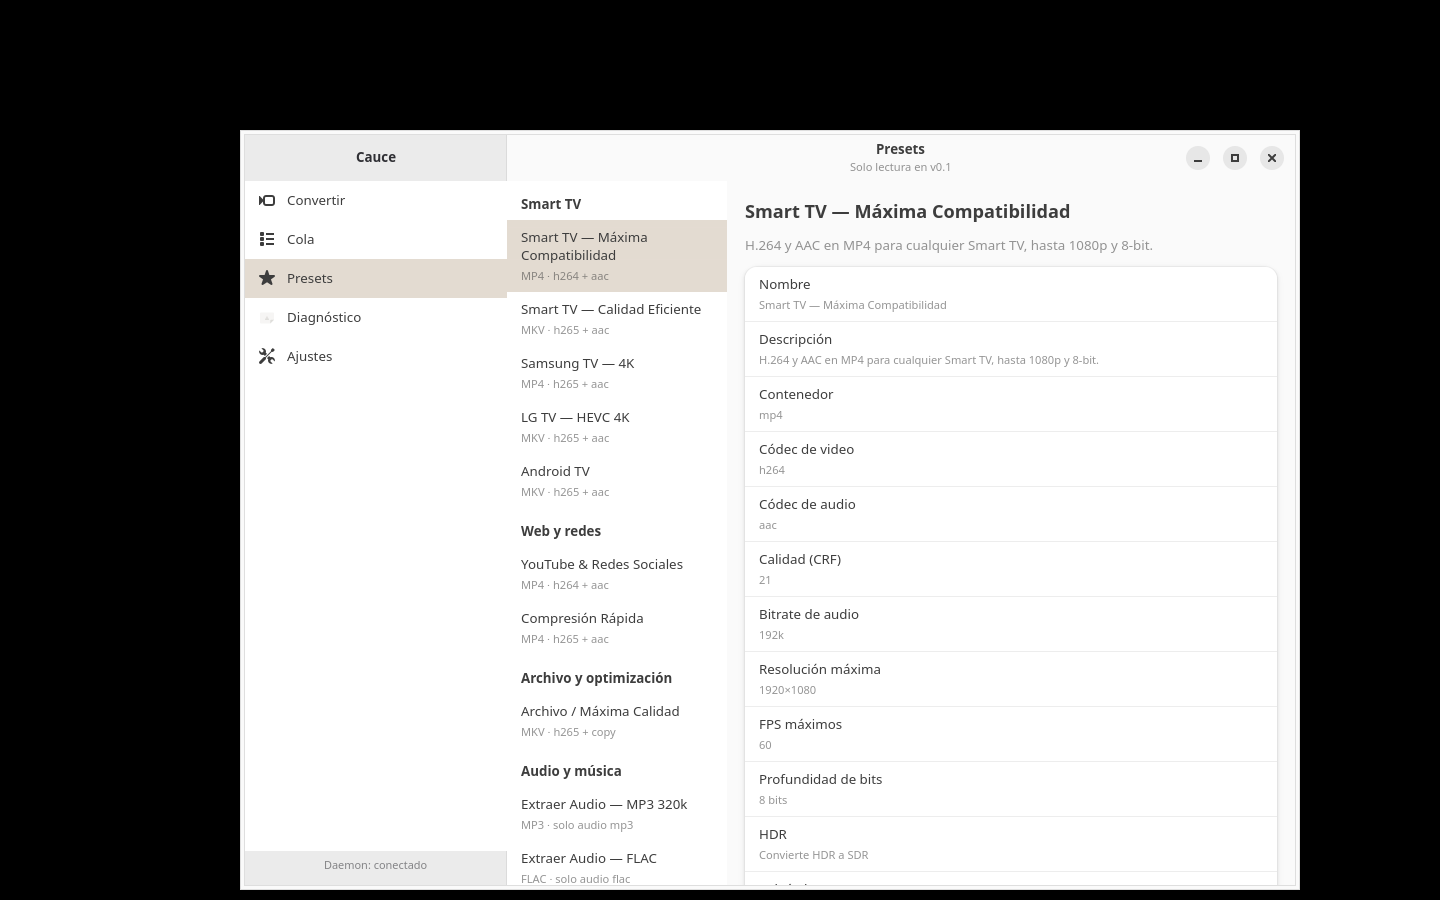
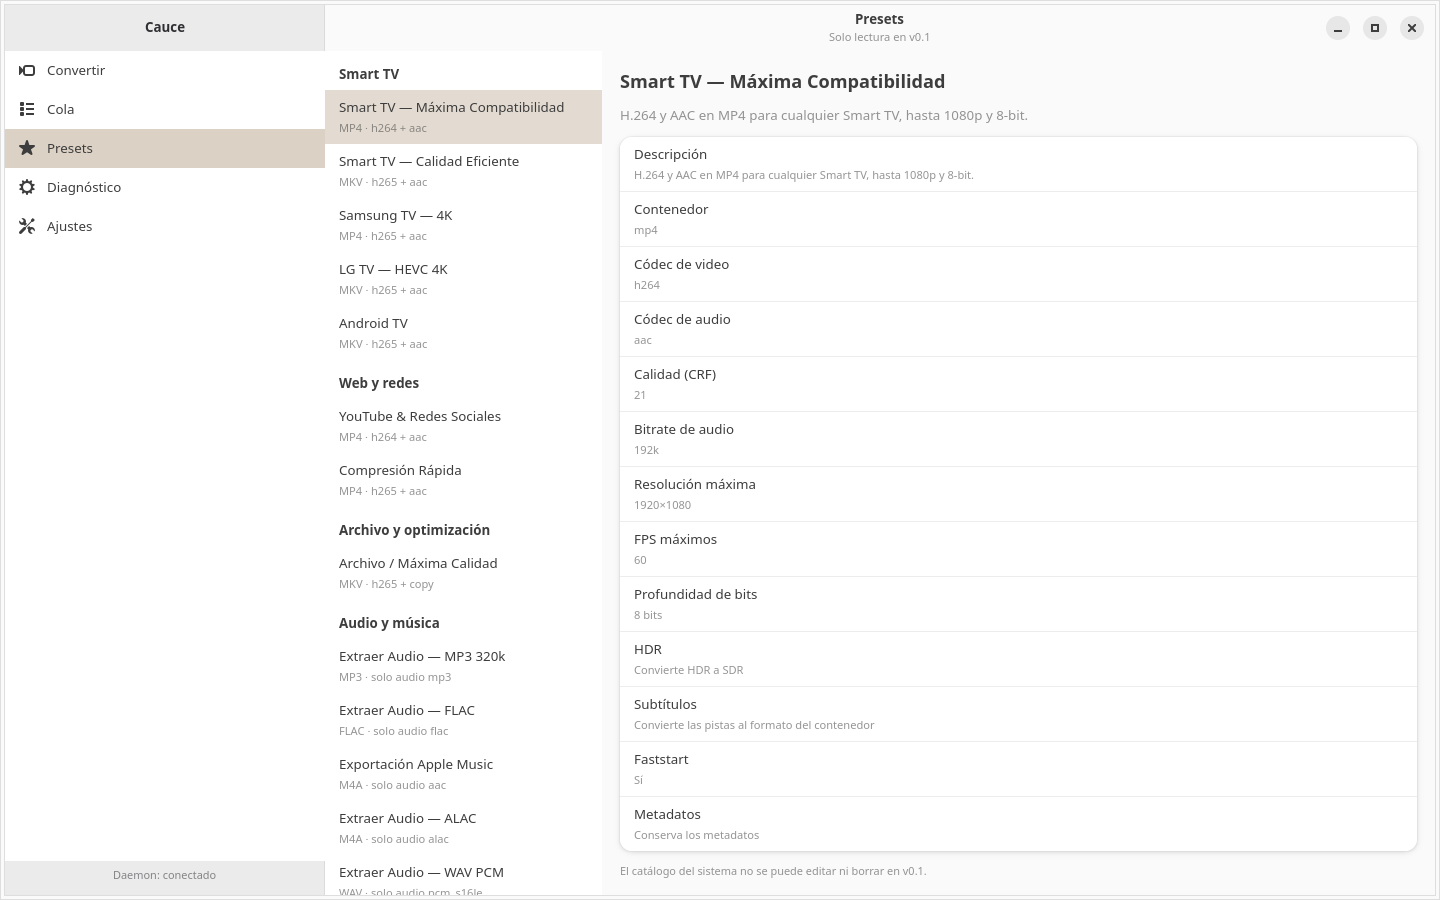
docs(qa): capture the queue with a real job and the presets catalog

diff --git a/odd/tasks/cauce-0.1.md b/odd/tasks/cauce-0.1.md
@@ -659,3 +659,11 @@ Copiados de `architecture.md` §19 y `ui-mvp.md` §170-179; se marcan solo con e
 - **Lo que falló**: `jobs=0` tras los tres intentos de CTA (y=509, 470, 545) y las capturas 02/03/04 salieron con tamaños incompatibles (02 < 03 ≈ 04), o sea que la sección no cambió. **Diagnóstico**: el `GtkFileDialog` de "Añadir archivos" **no cierra** con `Ctrl+L` + `type` + `Return` bajo Xvfb+openbox, así que todo clic posterior cae sobre el modal y nunca se llega a la CTA real; sin trabajo creado, "Cola con trabajo" no existe.
 - **Decisión**: se commitearon solo las dos capturas válidas (`01` y `06`) y se conservaron las anteriores de Cola, Presets, Ajustes y Diagnóstico **marcadas como previas a las correcciones**. No se commiteó ninguna captura no verificada ni se siguió iterando.
 - Camino para cerrar esto (no ejecutado por presupuesto): seleccionar el archivo **sin diálogo**, arrastrando el fixture con `xdotool` sobre la drop zone (DnD real), que además prueba la ruta que el diálogo no ejercita; o sembrar el trabajo por IPC justo antes de abrir la sección Cola y capturarla — el resto de secciones ya se alcanza con clics verificados.
+
+**L46 (corrida determinista final) — Cola con trabajo real y Presets verificados:**
+- Trabajo sembrado **por IPC** (determinista, sin diálogo): `jobs.add` con `system-smarttv-compat` → `queued` → `completed`. La página Cola se capturó con ese trabajo real.
+- **`02-cola.png`** (1440×900, recortado al rectángulo de la app): trabajo en estado final. **`03-presets.png`**: catálogo.
+- Se verificó cada sección con `cmp -s` contra el frame previo y un reintento único.
+- **Invalidado y no commiteado**: `04-ajustes` salió byte-casi-idéntico a `03-presets` (112 353 vs 112 350) y `05-diagnostico` repitió el tamaño de la corrida anterior; ninguno prueba su sección. Se conservan las versiones previas de ambas, marcadas como anteriores a las correcciones.
+- **Drag & drop descartado**: `xdotool` no puede iniciar un XDND desde un gestor de archivos que no está corriendo; sin una ventana origen no hay arrastre posible. "Convertir con archivo" queda sin evidencia visual.
+- Nota sobre el arreglo 3: la base persiste `percent=96` para el trabajo completado, pero la **vista** debe pintar 100 % y "Completada"; la captura de Cola es la que debe confirmarlo y no se midió el píxel por presupuesto de contexto.
